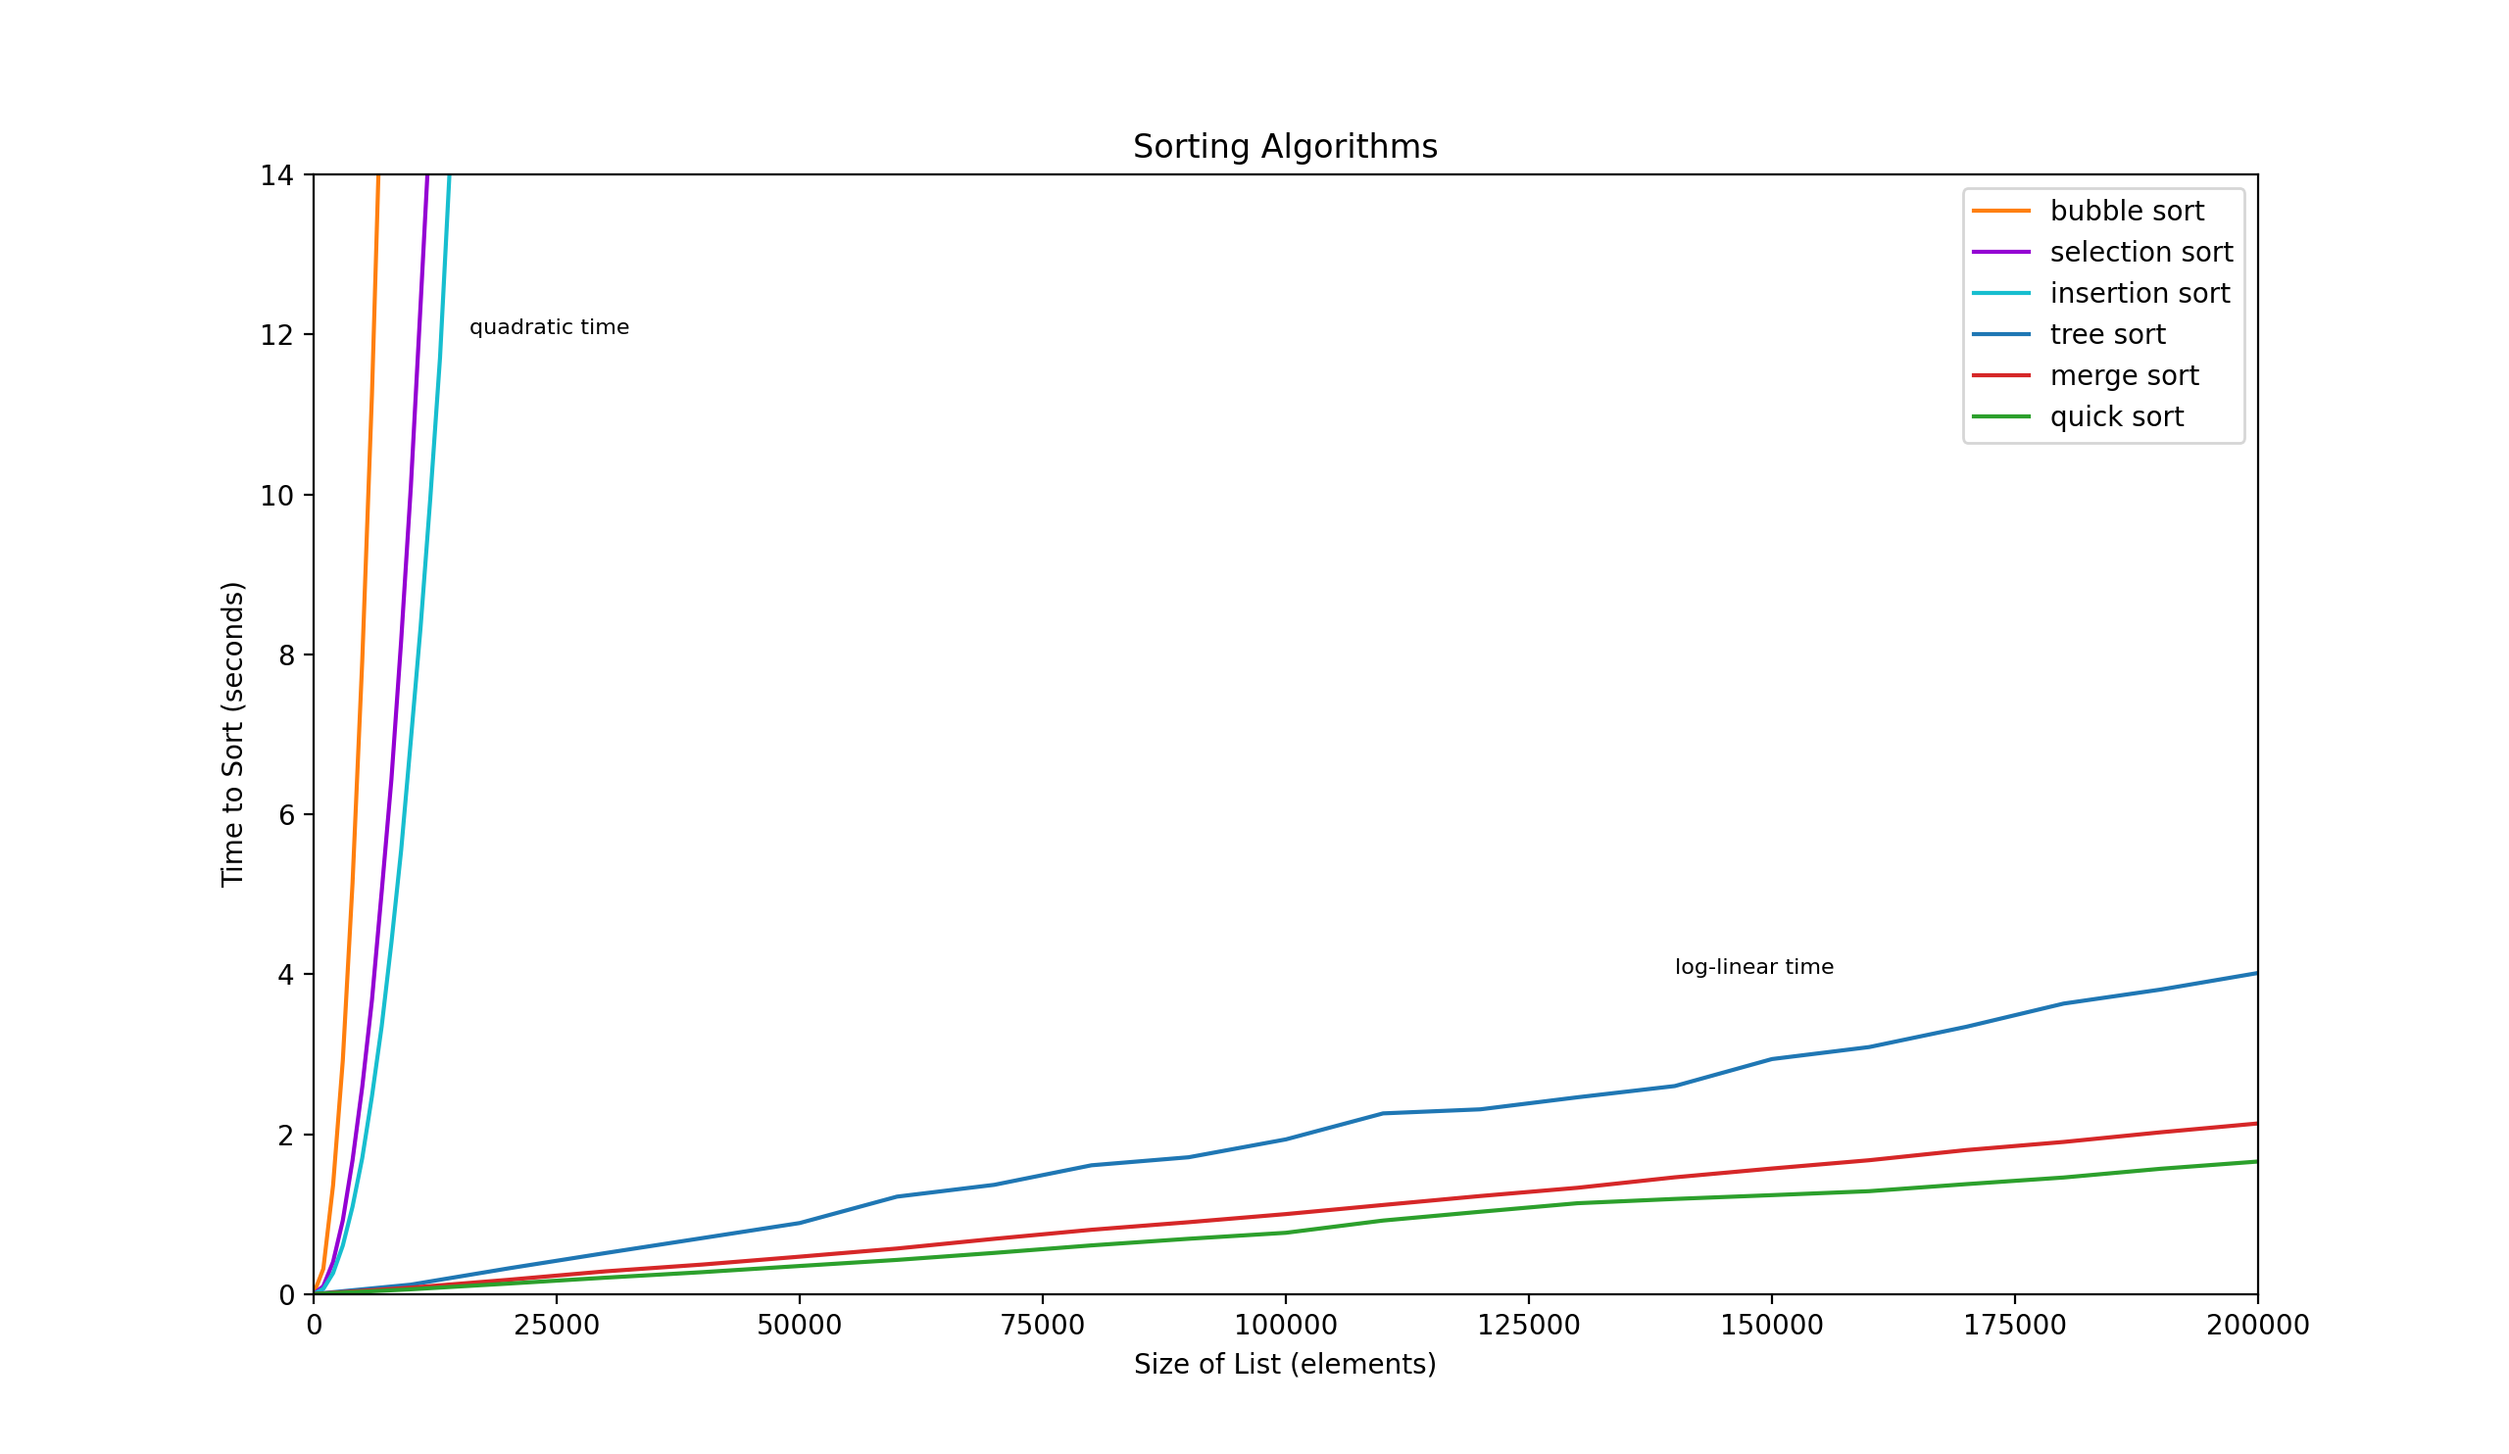
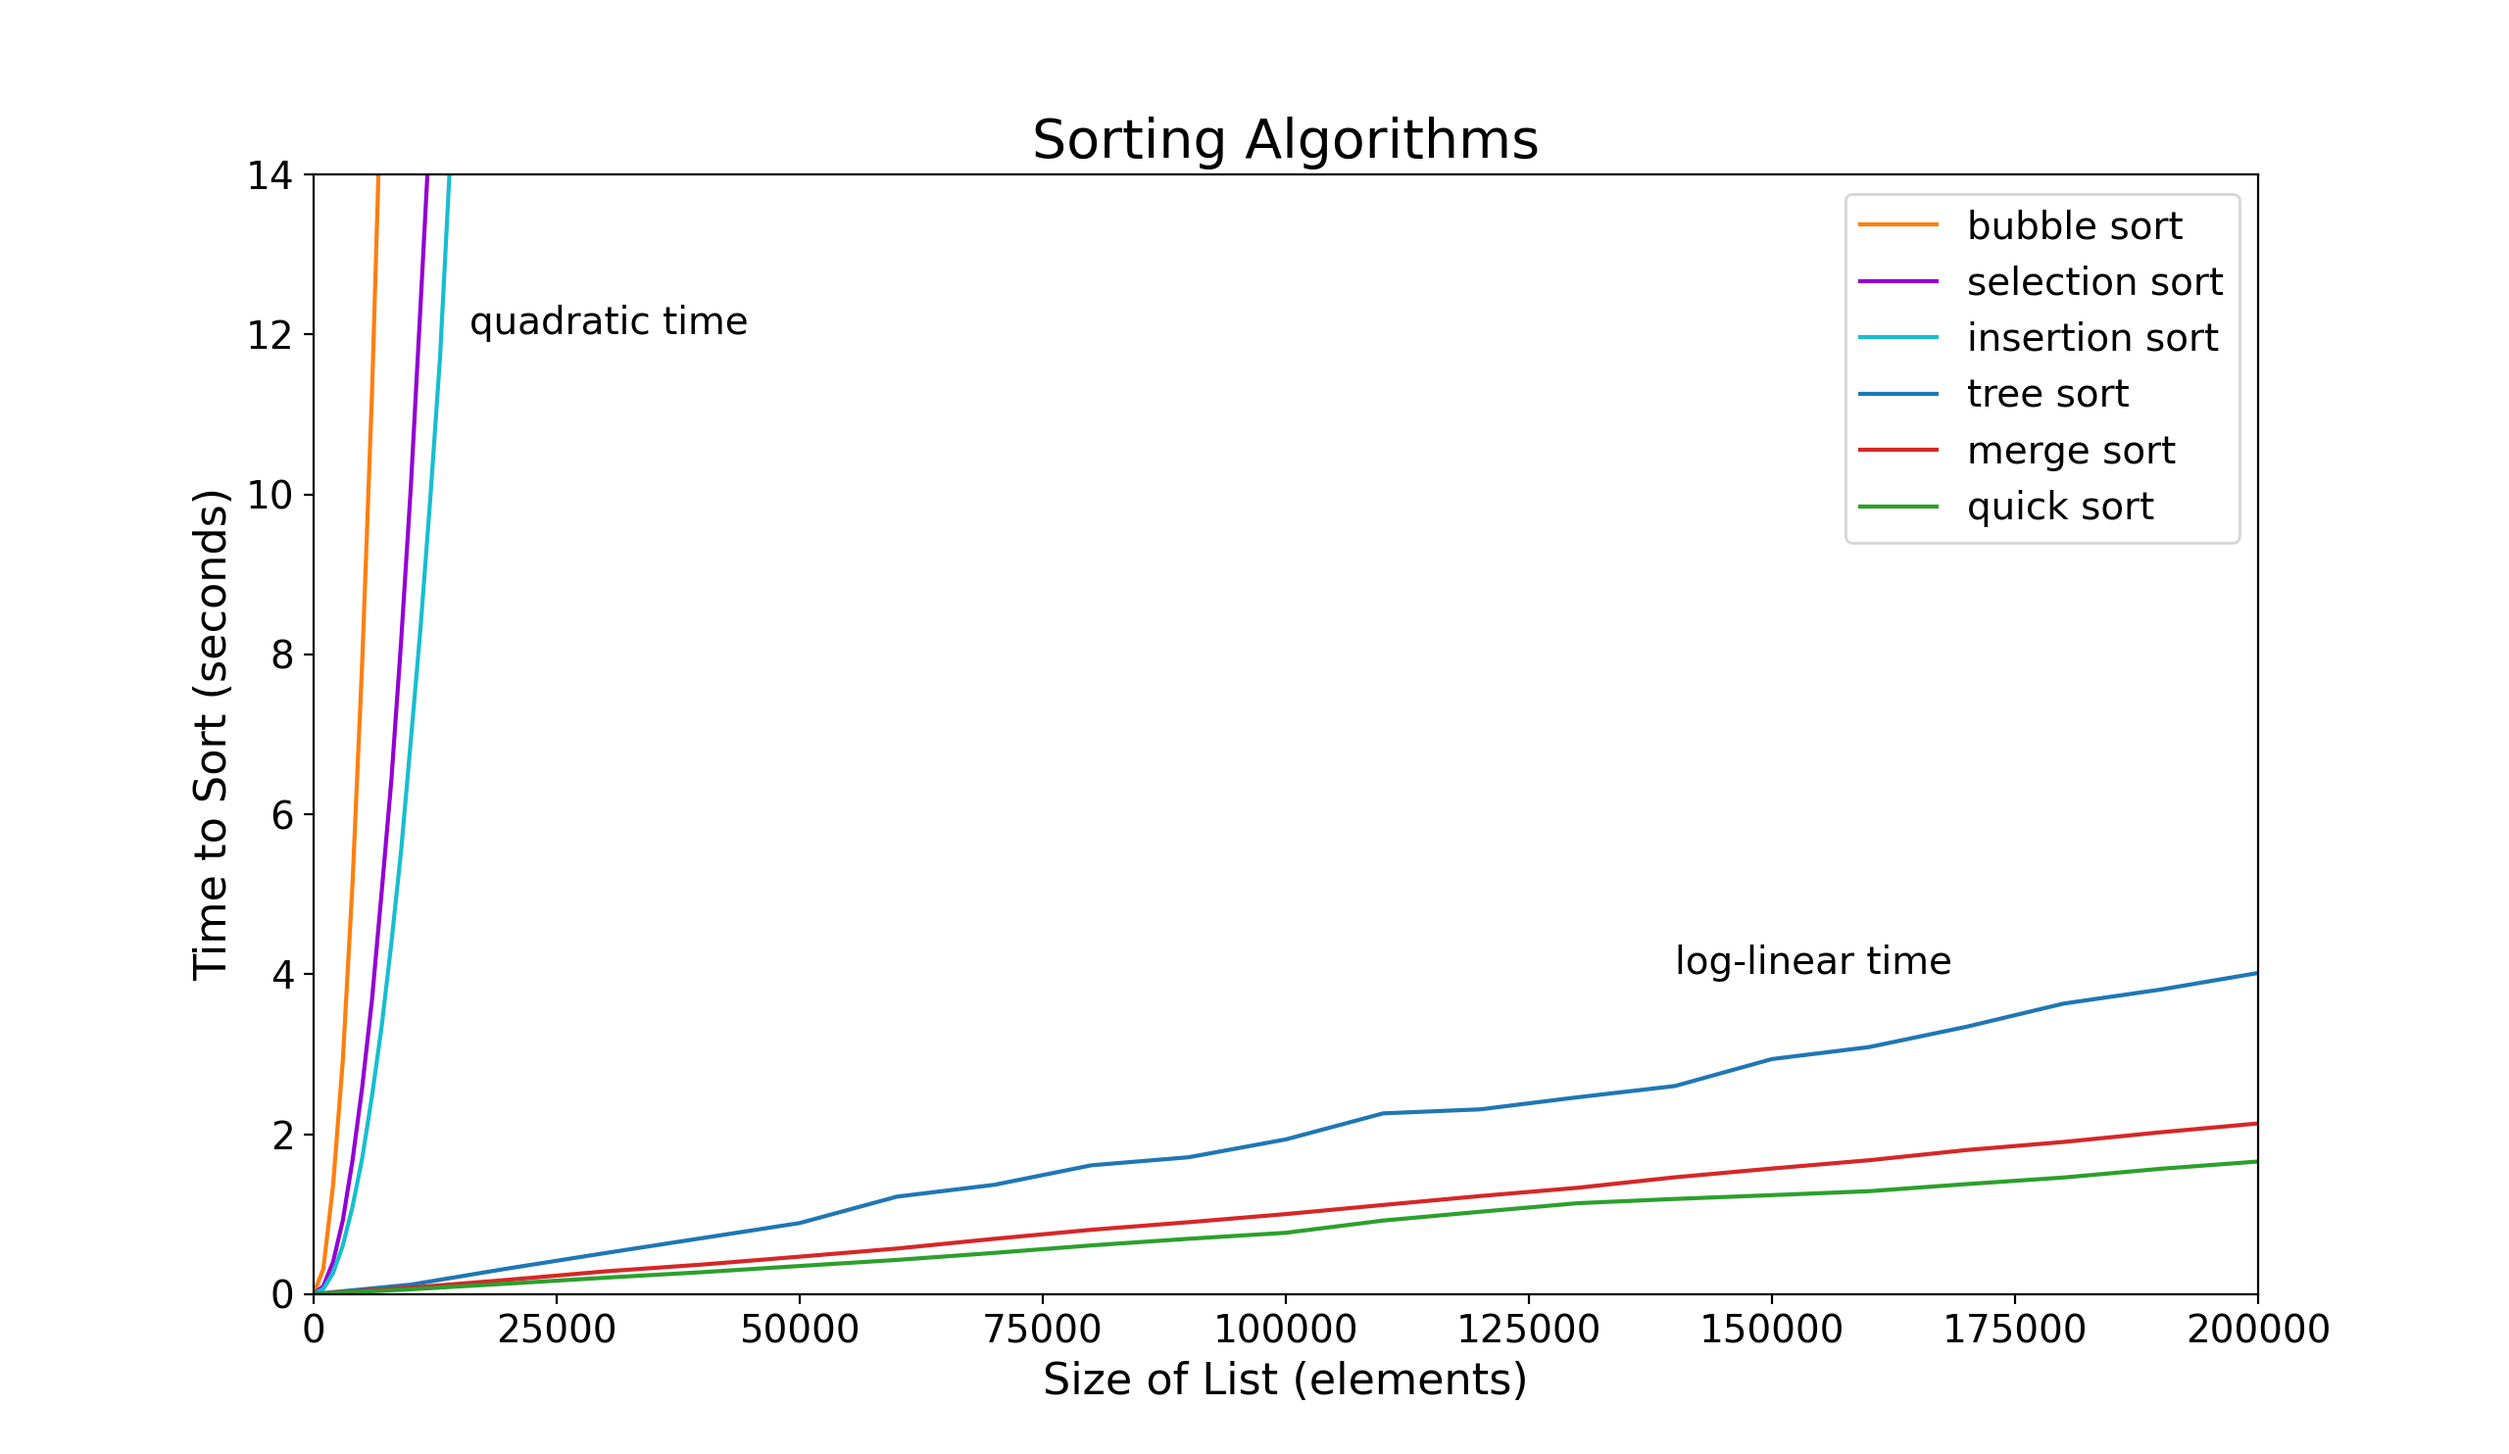
increased font sizes of graphs

diff --git a/plot_quadratic.py b/plot_quadratic.py
@@ -7,10 +7,12 @@ ax = fig.add_subplot(111)
 plt.xlim([0, 19000])
 plt.ylim([0, 20])
 
-ax.set_title("Quadratic Time Sorting Algorithms")
-ax.set_xlabel("Size of List (elements)")
-ax.set_ylabel("Time to Sort (seconds)")
+ax.set_title("Quadratic Time Sorting Algorithms", fontsize=20)
+ax.set_xlabel("Size of List (elements)", fontsize=16)
+ax.set_ylabel("Time to Sort (seconds)", fontsize=16)
 
+plt.xticks(fontsize=14)
+plt.yticks(fontsize=14)
 
 # bubble sort
 bubble_xs = [i for i in range(0, 8001, 1000)]
@@ -27,5 +29,5 @@ insertion_xs = [i for i in range(0, 17001, 1000)]
 insertion_ys = [0, 0.065403942, 0.266629282, 0.61332097, 1.10324347, 1.757205955, 2.397509865, 3.39461072, 4.449606701, 5.598851141, 6.923869, 8.333155321, 9.990748035, 11.62466114, 13.71631807, 15.58797276, 17.96887404, 20.47389299]
 ax.plot(insertion_xs, insertion_ys, c='tab:cyan', label="insertion sort")
 
-plt.legend(loc='upper left');
+plt.legend(loc='upper left', prop={'size': 14});
 plt.show()

diff --git a/plot_loglinear.py b/plot_loglinear.py
@@ -4,9 +4,12 @@ from bubble_sort import bubble_sort
 fig = plt.figure()
 ax = fig.add_subplot(111)
 
-ax.set_title("Log-Linear Sorting Algorithms")
-ax.set_xlabel("Size of List (millions)")
-ax.set_ylabel("Time to Sort (seconds)")
+ax.set_title("Log-Linear Sorting Algorithms", fontsize=20)
+ax.set_xlabel("Size of List (millions)", fontsize=16)
+ax.set_ylabel("Time to Sort (seconds)", fontsize=16)
+
+plt.xticks(fontsize=14)
+plt.yticks(fontsize=14)
 
 plt.xlim([0, 1_200_000])
 plt.ylim([0, 30])
@@ -27,5 +30,5 @@ quick_ys = [0, 0.763579506, 1.65103401, 2.612733445, 3.510366021, 4.539139283, 5
 ax.plot(quick_xs, quick_ys, c='tab:green', label="quick sort")
 
 
-plt.legend(loc='upper left');
+plt.legend(loc='upper left', prop={"size": 14});
 plt.show()

diff --git a/README.md b/README.md
@@ -85,7 +85,7 @@ The matplotlib package was used to plot and visualize the data.
 
 #### All Algorithms
 
-<img src="assets/all4.png" width="800px">
+<img src="assets/all.png" width="800px">
 
 #### Quadratic Time Algorithms
 
